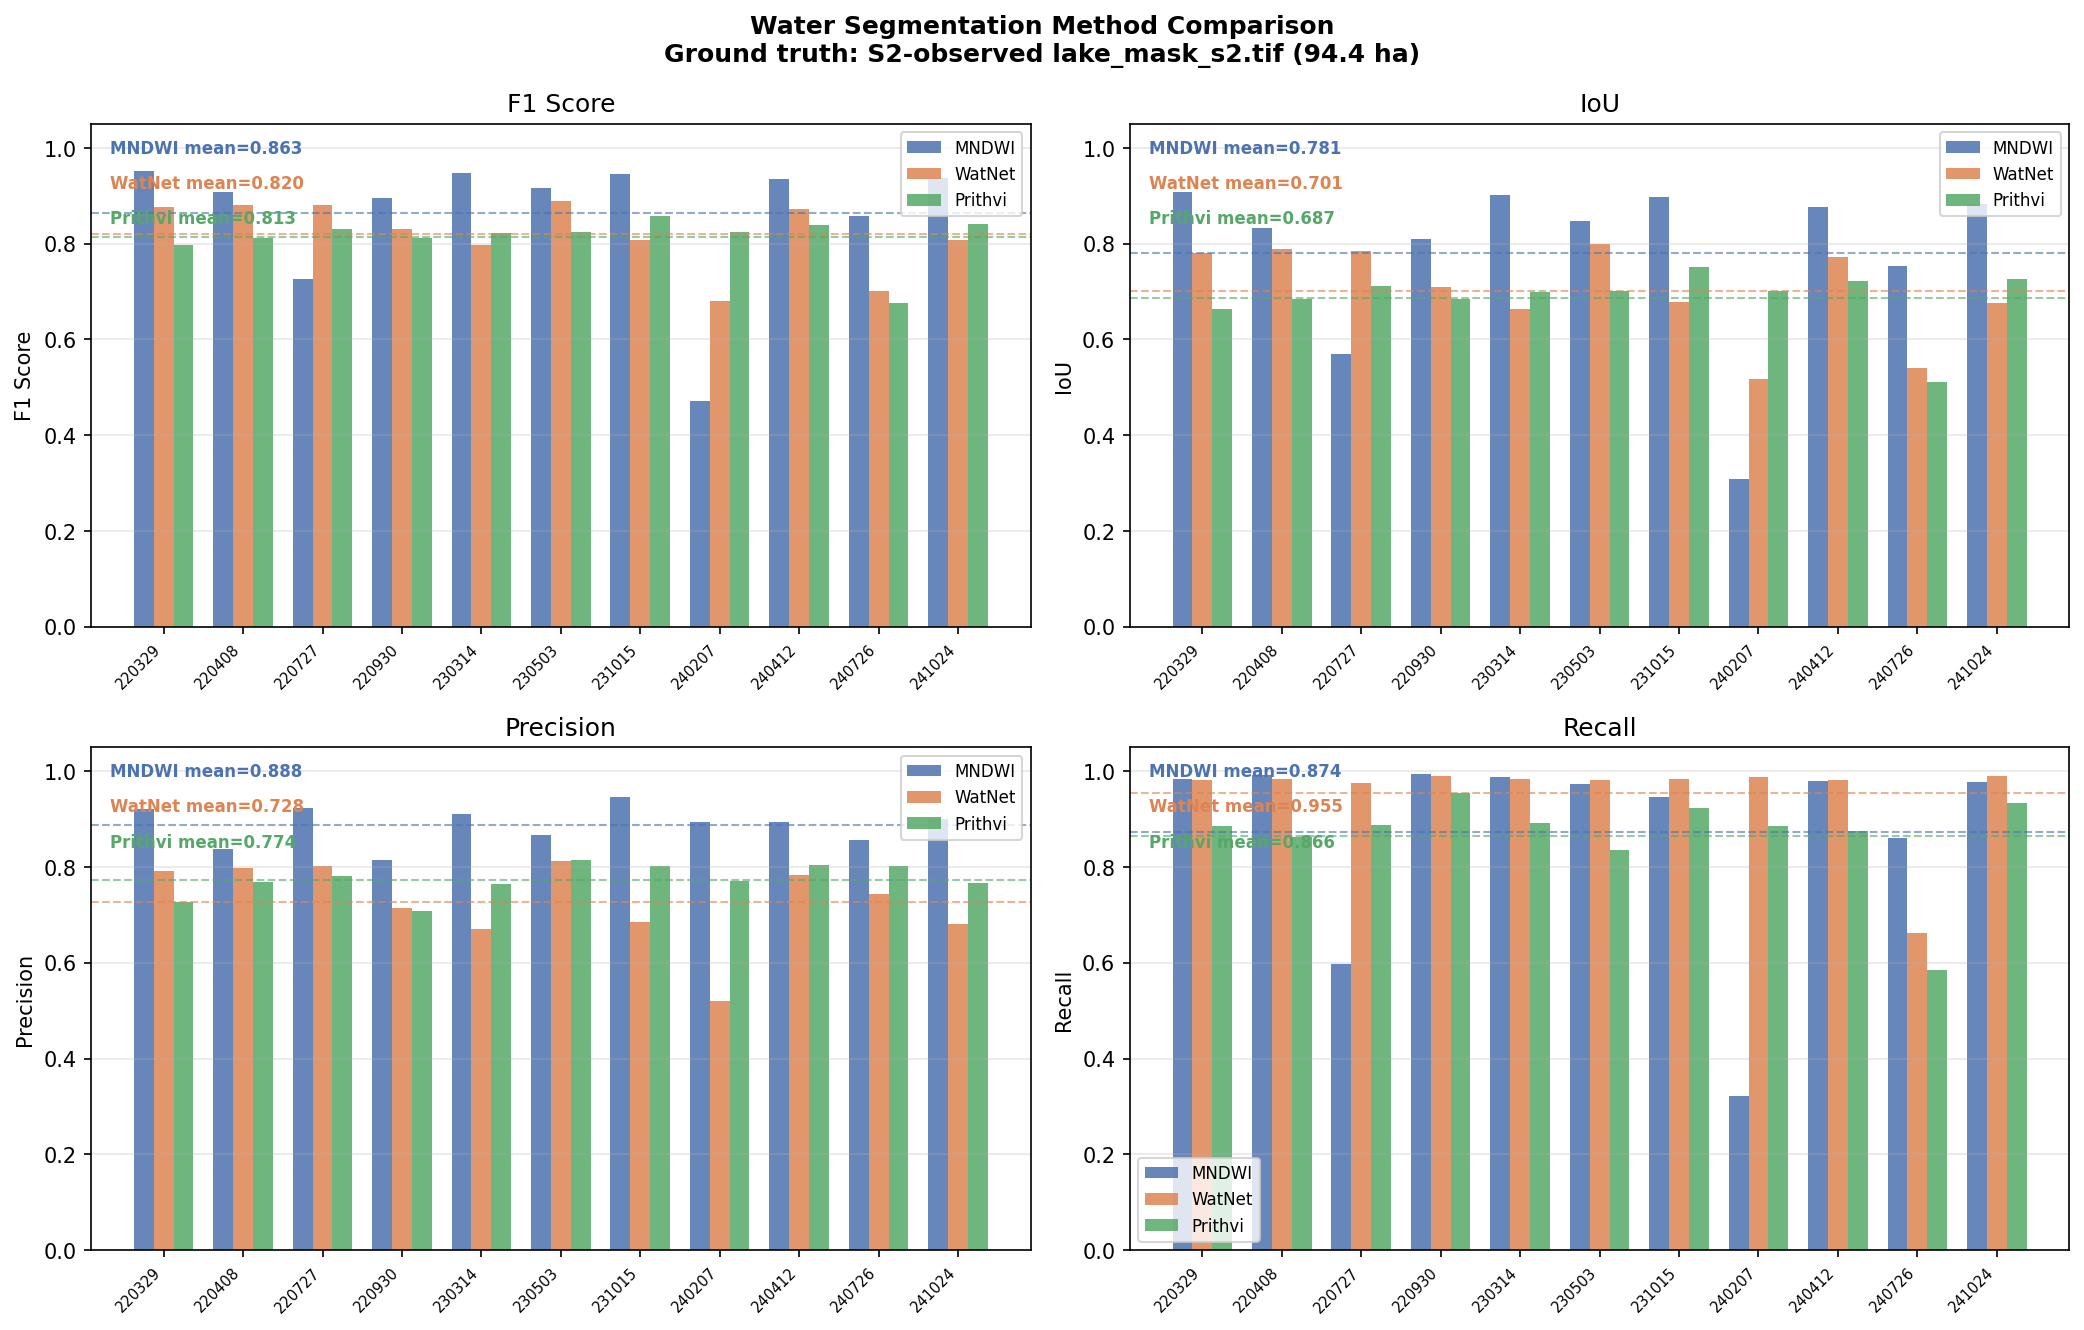
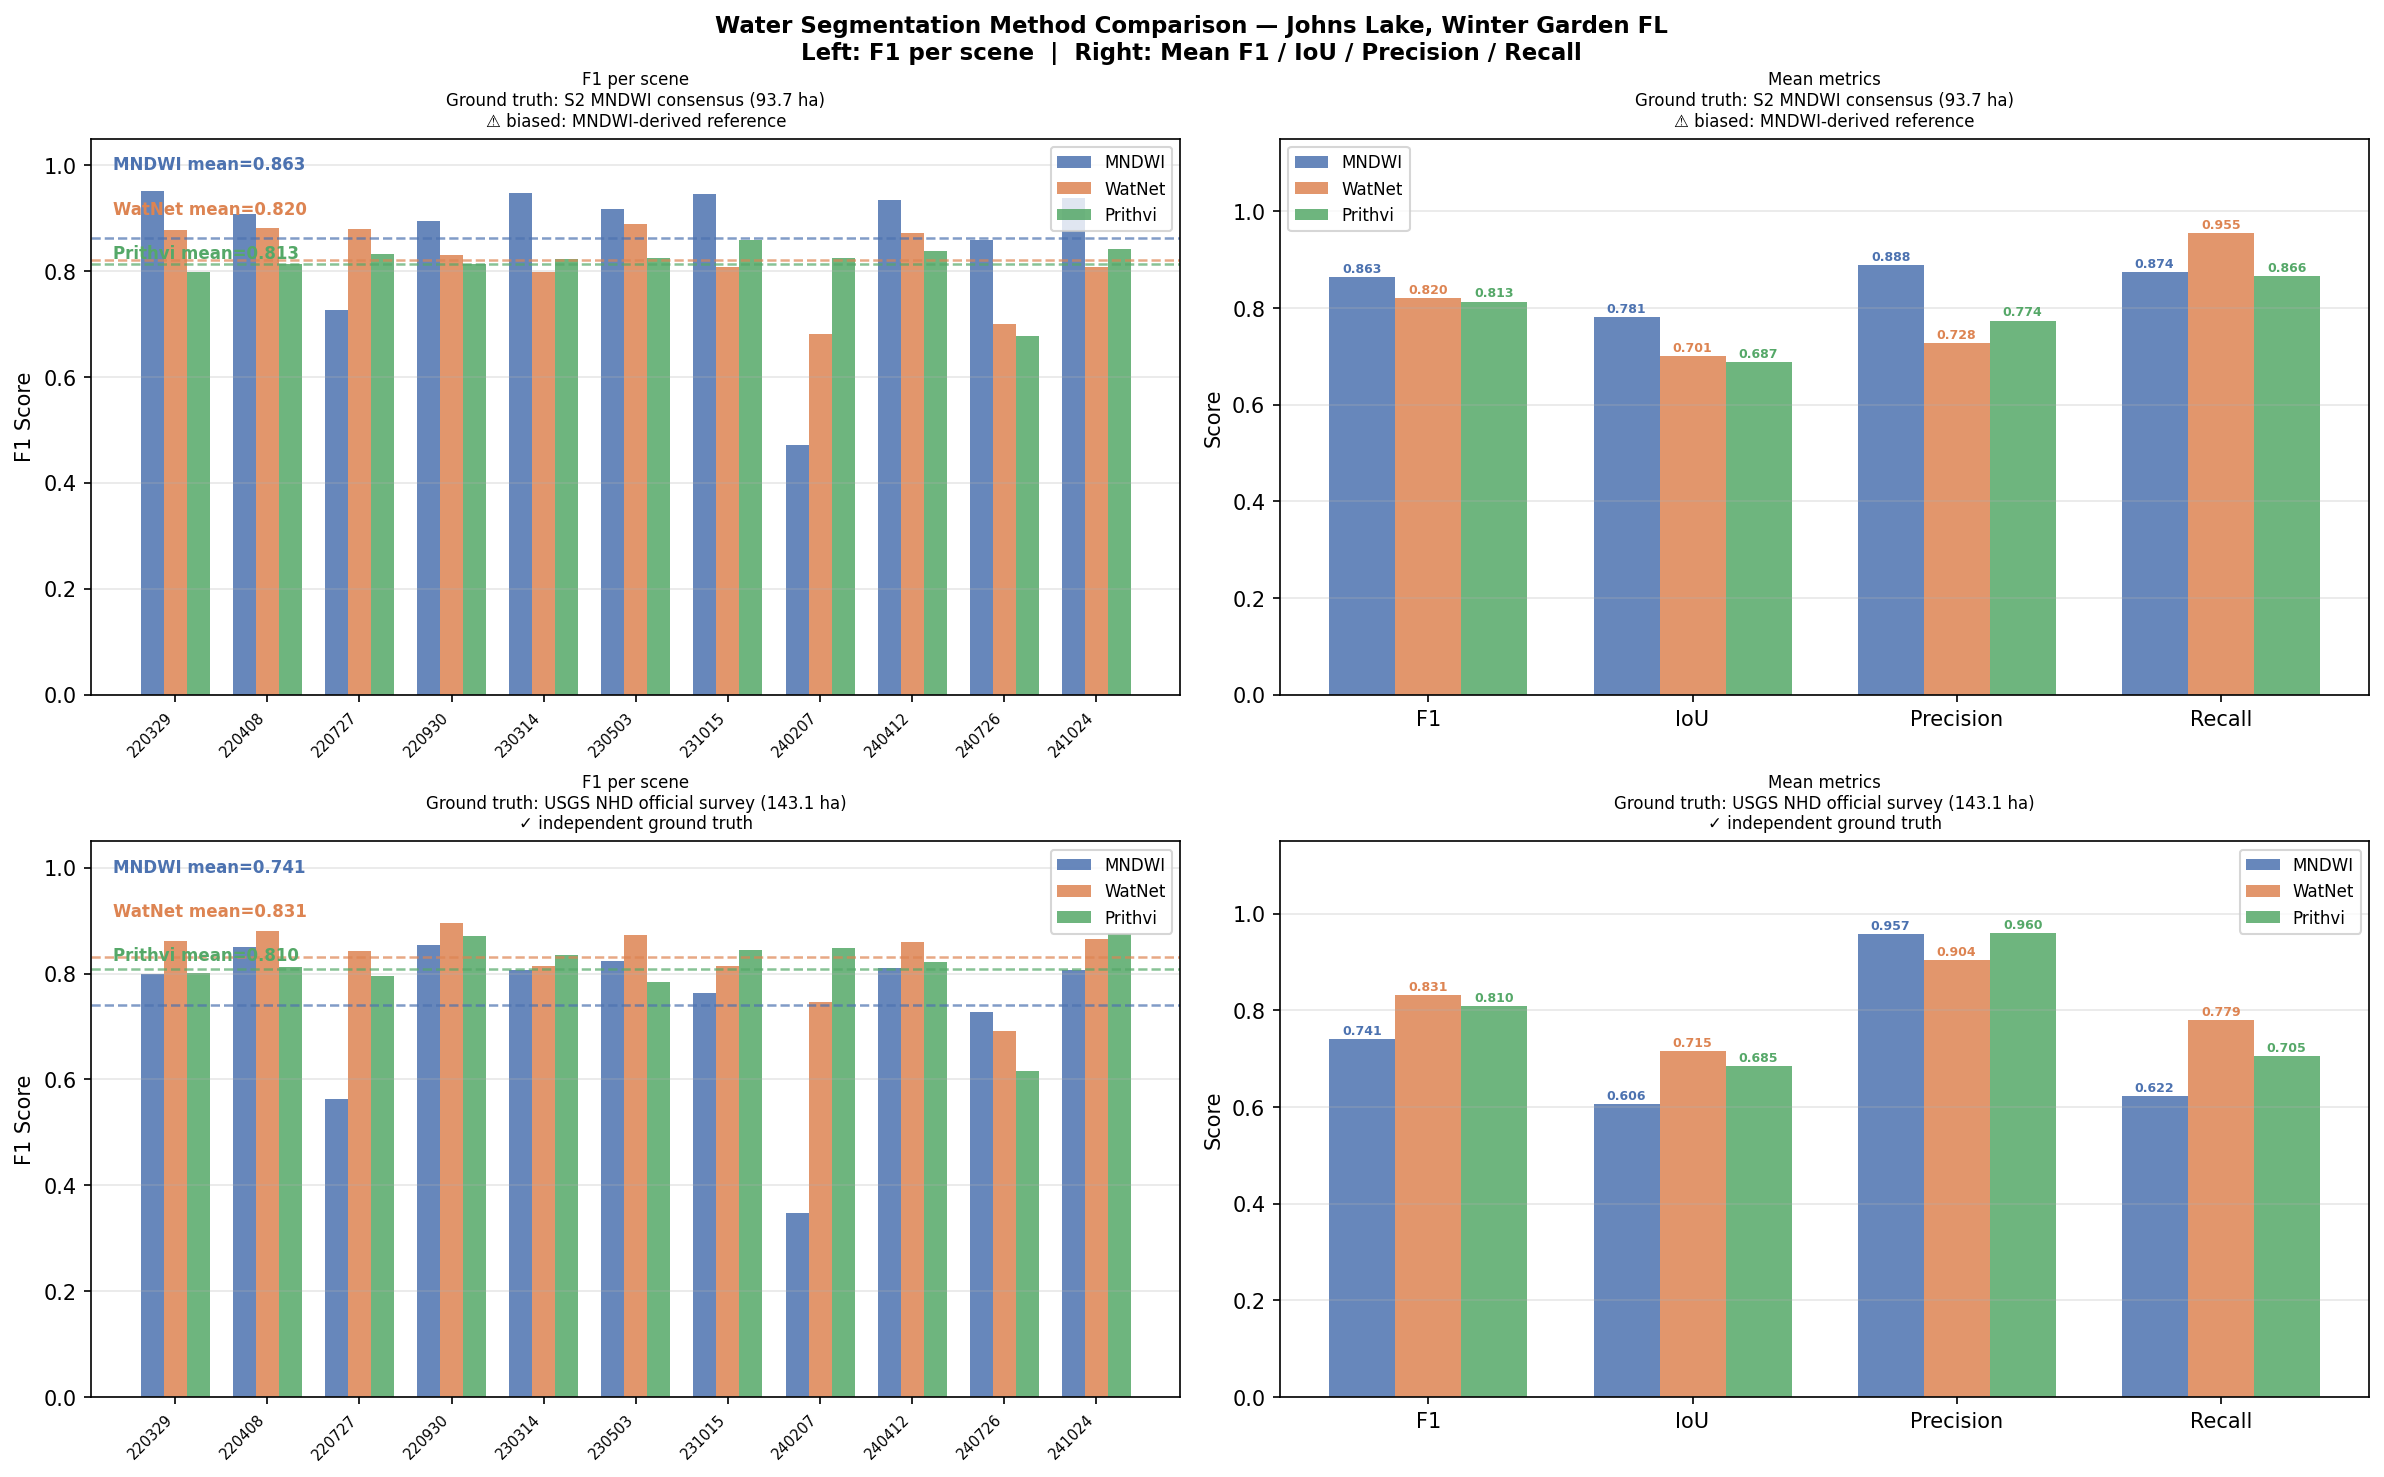
Fix ground truth bias: add NHD official reference and dual-GT comparison
lake_mask_s2.tif was a consensus of MNDWI masks (>=7/11 scenes agree), making
the MNDWI vs S2-reference comparison nearly circular.  Added USGS NHD official
waterbody polygon (Johns Lake + adjacent bodies) as an independent ground truth.

NHD rasterized area in AOI: 143.1 ha (vs MNDWI-consensus 93.7 ha — MNDWI was
undersegmenting shallow/turbid lake margins by ~50 ha).

Fair benchmark vs NHD official (independent ground truth):
  WatNet  F1=0.831  IoU=0.715  Precision=0.904  Recall=0.779  ← best overall
  Prithvi F1=0.810  IoU=0.685  Precision=0.960  Recall=0.705  ← best precision
  MNDWI   F1=0.741  IoU=0.606  Precision=0.957  Recall=0.622  ← drops to last

Key finding: when using MNDWI-derived reference, MNDWI wins by design (circular).
Against independent NHD ground truth, DL models (WatNet, Prithvi) outperform MNDWI.
Prithvi shows the highest precision (0.960) — almost no false positives.

diff --git a/models/flood_hydrology/sentinel2/compare_methods.py b/models/flood_hydrology/sentinel2/compare_methods.py
@@ -31,11 +31,16 @@ METHODS = {
     "Prithvi": "segformer_mask_{date}.tif",
 }
 
+# Independent ground truth options
+GT_OPTIONS = {
+    "s2_mndwi_consensus": os.path.join(DEM_DIR, "lake_mask_s2.tif"),   # MNDWI-derived (biased)
+    "nhd_official":       os.path.join(DEM_DIR, "lake_mask_nhd.tif"),   # USGS NHD survey (independent)
+}
 
-def load_ref_mask():
-    ref_path = os.path.join(DEM_DIR, "lake_mask_s2.tif")
+
+def load_ref_mask(ref_path):
     if not os.path.exists(ref_path):
-        raise FileNotFoundError(f"S2 reference mask not found: {ref_path}")
+        raise FileNotFoundError(f"Reference mask not found: {ref_path}")
     with rasterio.open(ref_path) as src:
         arr  = src.read(1).astype(np.uint8)
         meta = {
@@ -43,9 +48,10 @@ def load_ref_mask():
             "transform": src.transform, "crs": src.crs,
         }
         px_area_m2 = abs(src.transform.a) * abs(src.transform.e)
+        epsg = src.crs.to_epsg()
+        res  = src.res[0]
     area_ha = float(arr.sum() * px_area_m2 / 1e4)
-    print(f"Reference: lake_mask_s2.tif  ({area_ha:.1f} ha, S2-observed, "
-          f"{src.crs.to_epsg()} at {src.res[0]:.1f}m)")
+    print(f"  {os.path.basename(ref_path)}: {area_ha:.1f} ha  (EPSG:{epsg}, {res:.1f}m px)")
     return arr, meta
 
 
@@ -90,115 +96,156 @@ def metrics(pred, ref):
                 f1=round(f1,4), iou=round(iou,4))
 
 
-def main():
-    ref, ref_meta = load_ref_mask()
-    ref_shape = ref.shape
-
-    # Discover all dates with at least one method mask
-    dates = sorted({
-        os.path.basename(f).replace("water_mask_","").replace(".tif","")
-        for f in glob.glob(os.path.join(DATA_DIR, "water_mask_2*.tif"))
-    })
-    print(f"Dates: {dates}\n")
-
+def run_comparison(ref_arr, ref_meta, ref_label, dates):
     rows = []
     for date in dates:
         row = {"date": date}
         for method, pattern in METHODS.items():
             path = os.path.join(DATA_DIR, pattern.format(date=date))
             if not os.path.exists(path):
-                print(f"  [{date}] {method}: missing")
                 continue
             pred, area = load_mask(path, ref_meta)
-            m = metrics(pred, ref)
-            row[f"{method}_area_ha"]  = round(area, 2)
-            row[f"{method}_f1"]       = m["f1"]
-            row[f"{method}_iou"]      = m["iou"]
-            row[f"{method}_precision"]= m["precision"]
-            row[f"{method}_recall"]   = m["recall"]
+            m = metrics(pred, ref_arr)
+            row[f"{method}_area_ha"]   = round(area, 2)
+            row[f"{method}_f1"]        = m["f1"]
+            row[f"{method}_iou"]       = m["iou"]
+            row[f"{method}_precision"] = m["precision"]
+            row[f"{method}_recall"]    = m["recall"]
             print(f"  [{date}] {method:8s}  area={area:6.1f} ha  "
                   f"F1={m['f1']:.3f}  IoU={m['iou']:.3f}  "
                   f"Prec={m['precision']:.3f}  Rec={m['recall']:.3f}")
         rows.append(row)
+    return pd.DataFrame(rows)
 
-    df = pd.DataFrame(rows)
-    out_csv = os.path.join(BASE_DIR, "method_comparison.csv")
-    df.to_csv(out_csv, index=False)
-    print(f"\nSaved → {out_csv}")
 
-    # Summary
-    print("\n" + "="*65)
-    print(f"MEAN METRICS vs S2-observed ground truth (lake_mask_s2.tif)")
-    print("="*65)
+def main():
+    dates = sorted({
+        os.path.basename(f).replace("water_mask_","").replace(".tif","")
+        for f in glob.glob(os.path.join(DATA_DIR, "water_mask_2*.tif"))
+    })
+
+    all_results = {}
+    for gt_name, gt_path in GT_OPTIONS.items():
+        if not os.path.exists(gt_path):
+            print(f"Skipping {gt_name}: {gt_path} not found")
+            continue
+        print(f"\n{'='*65}")
+        print(f"Ground truth: {gt_name}  ({gt_path.split('/')[-1]})")
+        print(f"{'='*65}")
+        ref, ref_meta = load_ref_mask(gt_path)
+        print(f"Dates: {dates}\n")
+        df = run_comparison(ref, ref_meta, gt_name, dates)
+        all_results[gt_name] = df
+
+        # Per-GT summary
+        print(f"\nMEAN METRICS vs {gt_name}:")
+        for method in METHODS:
+            col = f"{method}_f1"
+            if col in df.columns:
+                print(f"  {method:8s}  F1={df[col].mean():.3f}  "
+                      f"IoU={df[f'{method}_iou'].mean():.3f}  "
+                      f"Prec={df[f'{method}_precision'].mean():.3f}  "
+                      f"Rec={df[f'{method}_recall'].mean():.3f}")
+
+    # Save per-GT CSVs
+    for gt_name, df in all_results.items():
+        out = os.path.join(BASE_DIR, f"method_comparison_{gt_name}.csv")
+        df.to_csv(out, index=False)
+        print(f"Saved → {out}")
+
+    _plot_both(all_results)
+
+    # Side-by-side summary table
+    print("\n" + "="*70)
+    print("SUMMARY: impact of ground truth choice on method ranking")
+    print("="*70)
+    print(f"{'Method':10s}  {'vs MNDWI-consensus':22s}  {'vs NHD official':22s}")
+    print(f"{'':10s}  {'F1    IoU   Prec  Rec ':22s}  {'F1    IoU   Prec  Rec ':22s}")
+    print("-"*70)
     for method in METHODS:
-        col = f"{method}_f1"
-        if col in df.columns:
-            f1  = df[col].mean()
-            iou = df[f"{method}_iou"].mean()
-            rec = df[f"{method}_recall"].mean()
-            pre = df[f"{method}_precision"].mean()
-            print(f"  {method:8s}  F1={f1:.3f}  IoU={iou:.3f}  "
-                  f"Precision={pre:.3f}  Recall={rec:.3f}")
+        parts = []
+        for gt_name, df in all_results.items():
+            if f"{method}_f1" in df.columns:
+                parts.append(
+                    f"{df[f'{method}_f1'].mean():.3f} "
+                    f"{df[f'{method}_iou'].mean():.3f} "
+                    f"{df[f'{method}_precision'].mean():.3f} "
+                    f"{df[f'{method}_recall'].mean():.3f}"
+                )
+            else:
+                parts.append("N/A")
+        print(f"  {method:8s}  {parts[0] if len(parts)>0 else 'N/A':22s}  "
+              f"{parts[1] if len(parts)>1 else 'N/A'}")
 
-    _plot(df)
 
-
-def _plot(df):
+def _plot_both(all_results):
     import matplotlib
     matplotlib.use("Agg")
     import matplotlib.pyplot as plt
 
     method_colors = {"MNDWI": "#4C72B0", "WatNet": "#DD8452", "Prithvi": "#55A868"}
-    dates = df["date"].tolist()
-    x = np.arange(len(dates))
-    width = 0.25
+    gt_labels = {
+        "s2_mndwi_consensus": "S2 MNDWI consensus (93.7 ha)\n⚠ biased: MNDWI-derived reference",
+        "nhd_official":       "USGS NHD official survey (143.1 ha)\n✓ independent ground truth",
+    }
 
-    fig, axes = plt.subplots(2, 2, figsize=(14, 9))
-    fig.suptitle("Water Segmentation Method Comparison\n"
-                 "Ground truth: S2-observed lake_mask_s2.tif (94.4 ha)",
-                 fontsize=12, fontweight="bold")
+    n_gt = len(all_results)
+    fig, axes = plt.subplots(n_gt, 2, figsize=(16, 5 * n_gt))
+    if n_gt == 1:
+        axes = axes[np.newaxis, :]
+    fig.suptitle("Water Segmentation Method Comparison — Johns Lake, Winter Garden FL\n"
+                 "Left: F1 per scene  |  Right: Mean F1 / IoU / Precision / Recall",
+                 fontsize=11, fontweight="bold")
 
-    metrics_to_plot = [
-        ("f1",        "F1 Score",  axes[0,0]),
-        ("iou",       "IoU",       axes[0,1]),
-        ("precision", "Precision", axes[1,0]),
-        ("recall",    "Recall",    axes[1,1]),
-    ]
+    for row_i, (gt_name, df) in enumerate(all_results.items()):
+        dates = df["date"].tolist()
+        x = np.arange(len(dates))
+        width = 0.25
+        gt_label = gt_labels.get(gt_name, gt_name)
 
-    for metric, label, ax in metrics_to_plot:
+        # Left: F1 bar chart per scene
+        ax = axes[row_i, 0]
         for i, (method, color) in enumerate(method_colors.items()):
-            col = f"{method}_{metric}"
+            col = f"{method}_f1"
             if col not in df.columns:
                 continue
             vals = df[col].tolist()
-            bars = ax.bar(x + (i - 1) * width, vals, width,
-                          label=method, color=color, alpha=0.85)
-            # Mean line
-            mean_val = np.mean(vals)
-            ax.axhline(mean_val, color=color, linestyle="--", linewidth=1, alpha=0.6)
-
+            ax.bar(x + (i-1)*width, vals, width, label=method, color=color, alpha=0.85)
+            ax.axhline(np.mean(vals), color=color, linestyle="--", lw=1.2, alpha=0.7)
         ax.set_xticks(x)
         ax.set_xticklabels([d[2:] for d in dates], rotation=45, ha="right", fontsize=7)
-        ax.set_ylabel(label)
-        ax.set_title(label)
-        ax.set_ylim(0, 1.05)
-        ax.legend(fontsize=8)
+        ax.set_ylim(0, 1.05); ax.set_ylabel("F1 Score"); ax.legend(fontsize=8)
+        ax.set_title(f"F1 per scene\nGround truth: {gt_label}", fontsize=8)
         ax.grid(axis="y", alpha=0.3)
-
-        # Annotate means in legend area
         for i, (method, color) in enumerate(method_colors.items()):
-            col = f"{method}_{metric}"
+            col = f"{method}_f1"
             if col in df.columns:
-                ax.text(0.02, 0.97 - i*0.07,
-                        f"{method} mean={df[col].mean():.3f}",
-                        transform=ax.transAxes, fontsize=8,
-                        color=color, va="top", fontweight="bold")
+                ax.text(0.02, 0.97-i*0.08, f"{method} mean={df[col].mean():.3f}",
+                        transform=ax.transAxes, fontsize=8, color=color,
+                        va="top", fontweight="bold")
+
+        # Right: mean metrics bar chart
+        ax2 = axes[row_i, 1]
+        metric_names = ["f1", "iou", "precision", "recall"]
+        metric_labels = ["F1", "IoU", "Precision", "Recall"]
+        x2 = np.arange(len(metric_names))
+        for i, (method, color) in enumerate(method_colors.items()):
+            means = [df[f"{method}_{m}"].mean() if f"{method}_{m}" in df.columns else 0
+                     for m in metric_names]
+            ax2.bar(x2 + (i-1)*0.25, means, 0.25, label=method, color=color, alpha=0.85)
+            for j, v in enumerate(means):
+                ax2.text(x2[j]+(i-1)*0.25, v+0.01, f"{v:.3f}", ha="center",
+                         fontsize=6, color=color, fontweight="bold")
+        ax2.set_xticks(x2); ax2.set_xticklabels(metric_labels)
+        ax2.set_ylim(0, 1.15); ax2.set_ylabel("Score"); ax2.legend(fontsize=8)
+        ax2.set_title(f"Mean metrics\nGround truth: {gt_label}", fontsize=8)
+        ax2.grid(axis="y", alpha=0.3)
 
     plt.tight_layout()
     out = os.path.join(BASE_DIR, "method_comparison.png")
     plt.savefig(out, dpi=150, bbox_inches="tight")
     plt.close()
-    print(f"Plot → {out}")
+    print(f"\nPlot → {out}")
 
 
 if __name__ == "__main__":